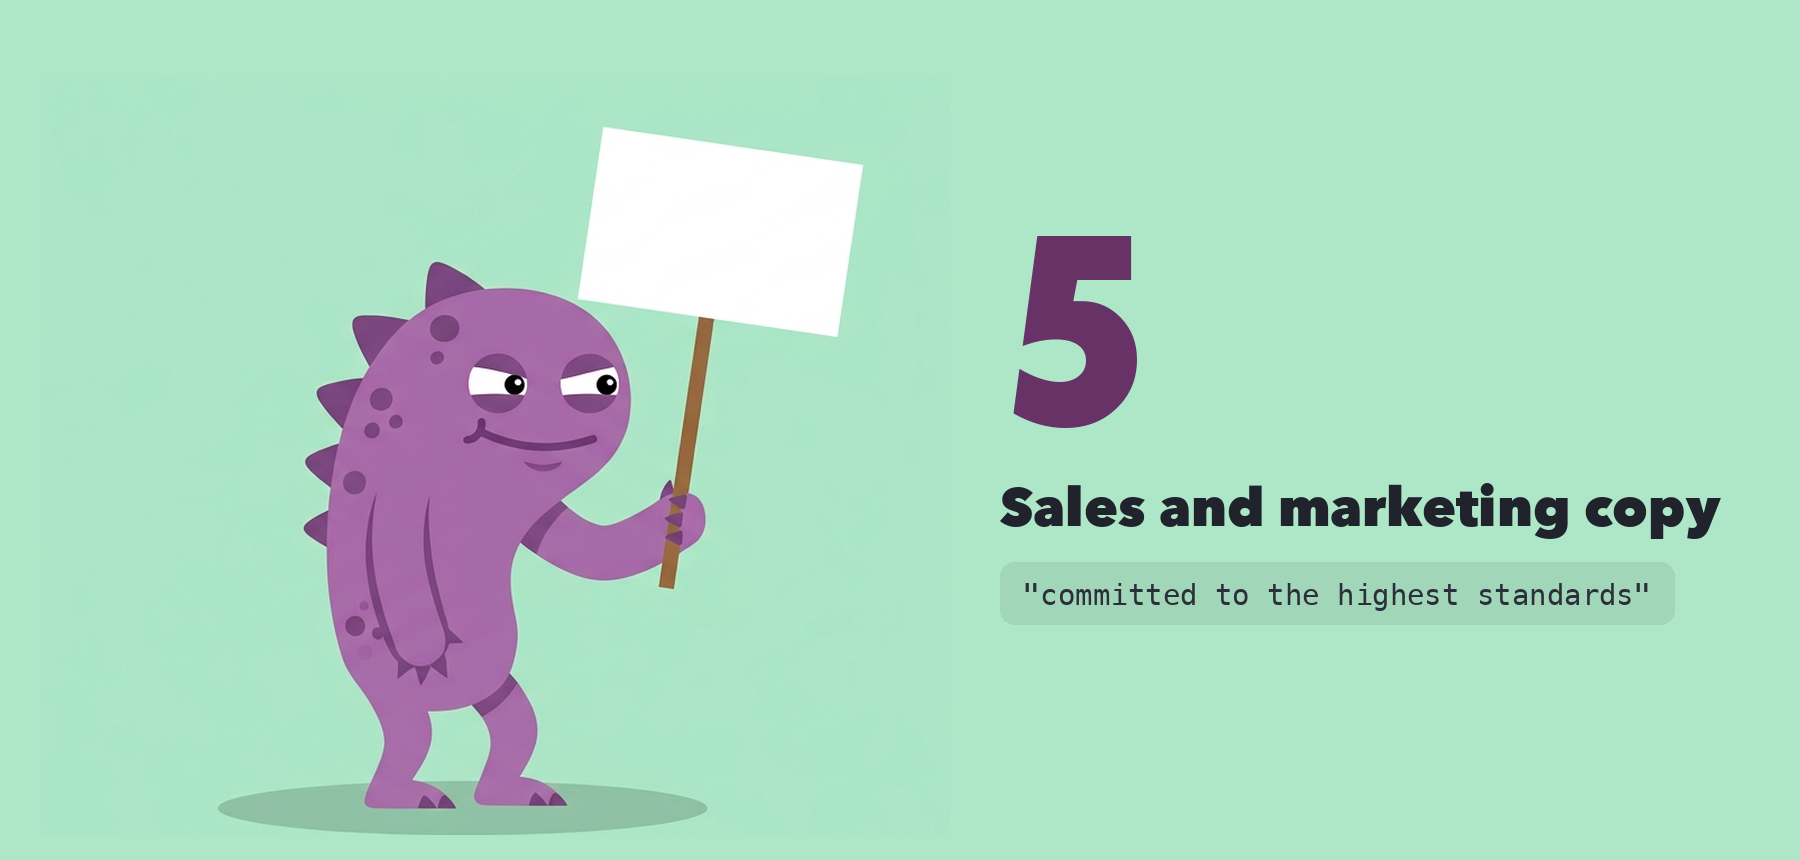
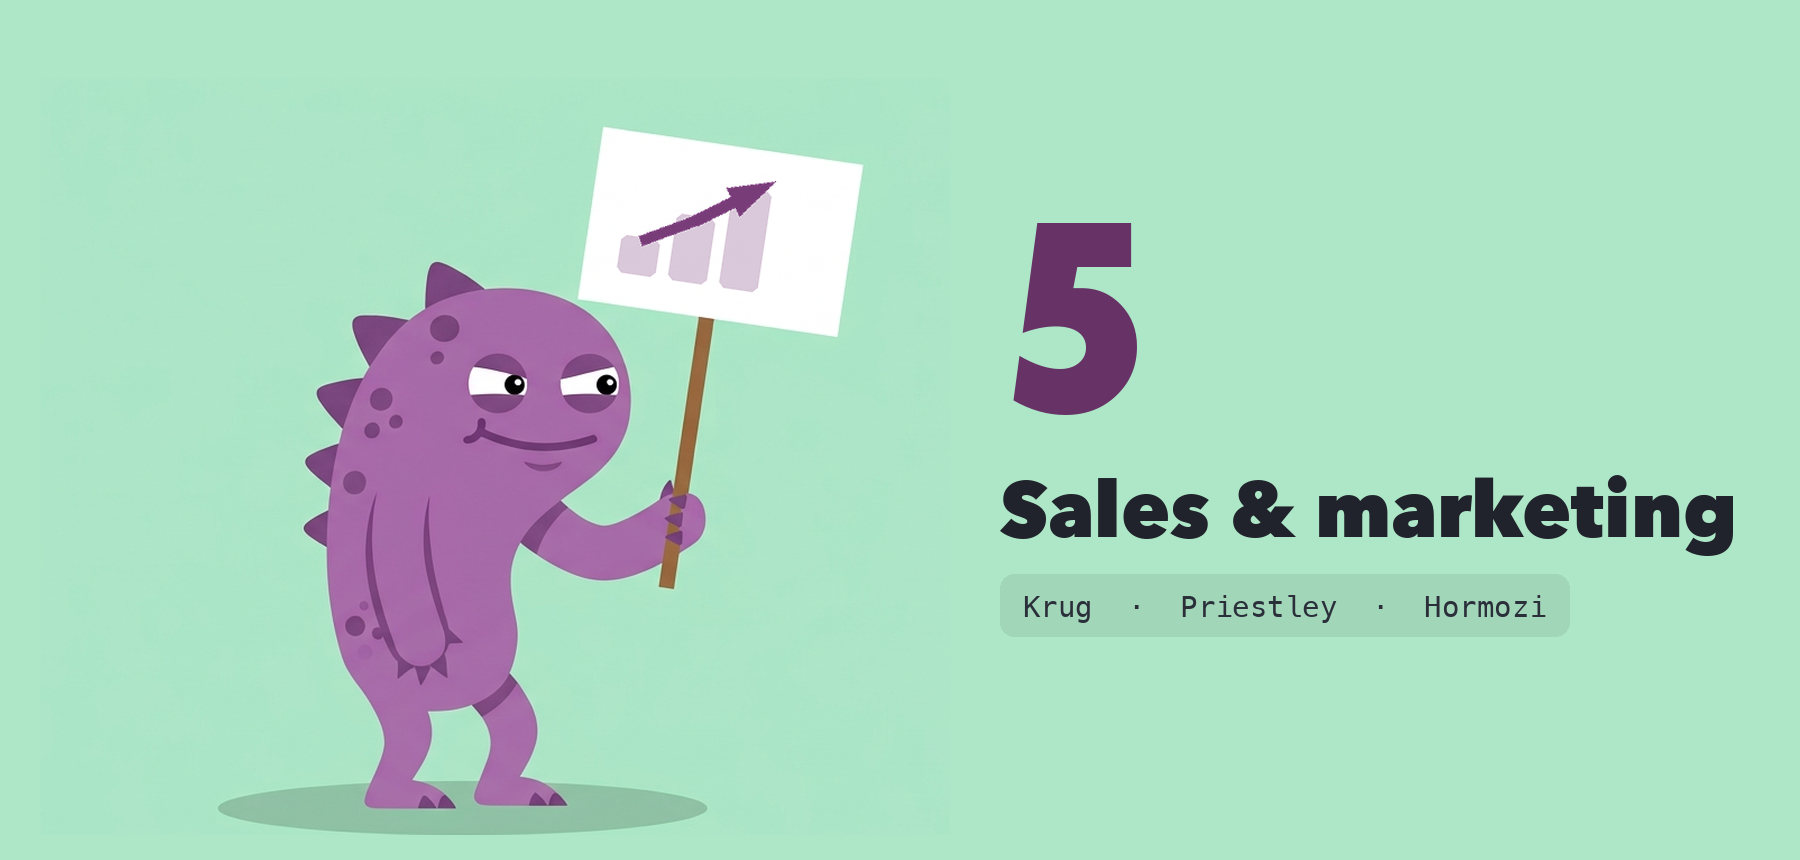
Rule 5: "Sales & marketing", and put a chart on the blank sign
- Title shortened to "Sales & marketing".
- Chip now names the three experts the rewrite actually draws on,
  rather than a made-up count. The repo cites Krug, Priestley and
  Hormozi. Writing "20+ experts" would be a number beside a noun with
  nothing behind it, which is the pattern this very rule catches.
- The sign is no longer blank. A rising chart, drawn in the monster's
  own purple, composited onto the sign quad at its 8.5 degree angle.

diff --git a/README.md b/README.md
@@ -120,9 +120,9 @@ openers, self-answering questions… 17 shapes, contracted and uncontracted.
 **4. Rule-of-three rhythm.** *faster, smarter, and better.* One tricolon is rhetoric;
 three on a page is a machine.
 
-![Rule 5, sales and marketing copy: "committed to the highest standards". What the page is actually for.](docs/img/rule-5-conversion.png)
+![Rule 5, sales and marketing: the rewrite built on Krug, Priestley and Hormozi](docs/img/rule-5-conversion.png)
 
-**5. Sales and marketing copy.** The first four rules get the AI accent out. This one asks
+**5. Sales & marketing.** The first four rules get the AI accent out. This one asks
 the harder question: does the line sell anything? Clean copy that says nothing is still a
 dead page. Two things run here.
 
